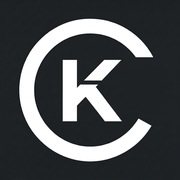
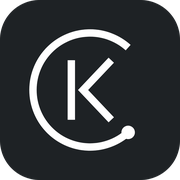
Add files via upload

diff --git a/coachkonnekt/site.css b/coachkonnekt/site.css
@@ -18,14 +18,15 @@ main { flex: 1; }
 .top { position: sticky; top: 0; z-index: 20; background: rgba(30,34,37,.88); backdrop-filter: blur(10px); border-bottom: 1px solid var(--line); }
 .top .wrap { display: flex; align-items: center; justify-content: space-between; gap: 12px; min-height: 64px; }
 .brand { display: flex; align-items: center; gap: 10px; text-decoration: none; color: var(--chalk); }
-.brand img { width: 34px; height: 34px; }
+.brand img { width: 34px; height: 34px; display: block; }
+.brand img.wm { width: auto; height: 15px; }
 .brand span { font-family: var(--display); font-size: 1.5rem; font-weight: 700; text-transform: uppercase; letter-spacing: .02em; }
 .brand b { font-weight: 800; }
 .links { display: flex; align-items: center; gap: 4px; }
 .links a { color: var(--mute); text-decoration: none; font-weight: 600; font-size: .92rem; padding: 8px 12px; border-radius: 8px; }
 .links a:hover { color: var(--chalk); }
 .links a.btn { color: var(--ink); padding: 9px 16px; margin-left: 6px; }
-@media (max-width: 640px) { .links a:not(.btn) { display: none; } .brand span { font-size: 1.25rem; } .links a.btn { padding: 8px 12px; } }
+@media (max-width: 640px) { .links a:not(.btn) { display: none; } .brand img.wm { height: 12px; } .links a.btn { padding: 8px 12px; } }
 
 /* buttons */
 .btn { display: inline-flex; align-items: center; justify-content: center; gap: 10px; background: var(--accent); color: var(--ink); font-weight: 700; padding: 13px 22px; border-radius: 10px; text-decoration: none; border: 0; font: inherit; font-weight: 700; cursor: pointer; transition: transform .15s; white-space: nowrap; }

diff --git a/coachkonnekt/dashboard/app.css b/coachkonnekt/dashboard/app.css
@@ -17,7 +17,8 @@ main.wrap { flex: 1; padding-top: 32px; padding-bottom: 64px; }
 .top { position: sticky; top: 0; z-index: 10; background: rgba(30,34,37,.92); backdrop-filter: blur(10px); border-bottom: 1px solid var(--line); }
 .top-in { display: flex; align-items: center; gap: 16px; min-height: 64px; flex-wrap: wrap; }
 .brand { display: flex; align-items: center; gap: 10px; text-decoration: none; color: var(--chalk); }
-.brand img { width: 34px; height: 34px; }
+.brand img { width: 34px; height: 34px; display: block; }
+.brand img.wm { width: auto; height: 15px; }
 .brand span { font-family: var(--display); font-weight: 700; font-size: 1.5rem; text-transform: uppercase; letter-spacing: .02em; }
 .brand b { font-weight: 800; }
 .nav { display: flex; gap: 4px; flex: 1; flex-wrap: wrap; }

diff --git a/coachkonnekt/privacy/index.html b/coachkonnekt/privacy/index.html
@@ -14,7 +14,7 @@
 </head>
 <body>
 <header class="top"><div class="wrap">
-  <a class="brand" href="/coachkonnekt/"><img src="/img/logo.png" alt=""><span>Coach<b>Konnekt</b></span></a>
+  <a class="brand" href="/coachkonnekt/"><img src="/img/logo.svg" alt=""><img class="wm" src="/img/wordmark-white.svg" alt="CoachKonnekt"></a>
   <nav class="links"><a class="btn" href="/coachkonnekt/dashboard/">Staff login</a></nav>
 </div></header>
 <main class="page wide policy">

diff --git a/coachkonnekt/connect/index.html b/coachkonnekt/connect/index.html
@@ -15,7 +15,7 @@
 </head>
 <body>
 <header class="top"><div class="wrap">
-  <a class="brand" href="/coachkonnekt/"><img src="/img/logo.png" alt=""><span>Coach<b>Konnekt</b></span></a>
+  <a class="brand" href="/coachkonnekt/"><img src="/img/logo.svg" alt=""><img class="wm" src="/img/wordmark-white.svg" alt="CoachKonnekt"></a>
   <nav class="links"><a class="btn" href="/coachkonnekt/dashboard/">Staff login</a></nav>
 </div></header>
 <main class="page">

diff --git a/coachkonnekt/connected/index.html b/coachkonnekt/connected/index.html
@@ -15,7 +15,7 @@
 </head>
 <body>
 <header class="top"><div class="wrap">
-  <a class="brand" href="/coachkonnekt/"><img src="/img/logo.png" alt=""><span>Coach<b>Konnekt</b></span></a>
+  <a class="brand" href="/coachkonnekt/"><img src="/img/logo.svg" alt=""><img class="wm" src="/img/wordmark-white.svg" alt="CoachKonnekt"></a>
   <nav class="links"><a class="btn" href="/coachkonnekt/dashboard/">Staff login</a></nav>
 </div></header>
 <main class="page">

diff --git a/coachkonnekt/index.html b/coachkonnekt/index.html
@@ -14,7 +14,7 @@
 </head>
 <body>
 <header class="top"><div class="wrap">
-  <a class="brand" href="/coachkonnekt/"><img src="/img/logo.png" alt=""><span>Coach<b>Konnekt</b></span></a>
+  <a class="brand" href="/coachkonnekt/"><img src="/img/logo.svg" alt=""><img class="wm" src="/img/wordmark-white.svg" alt="CoachKonnekt"></a>
   <nav class="links"><a class="btn" href="/coachkonnekt/dashboard/">Staff login</a></nav>
 </div></header>
 <main>

diff --git a/coachkonnekt/dashboard/index.html b/coachkonnekt/dashboard/index.html
@@ -15,7 +15,7 @@
 <body>
 <header class="top">
   <div class="wrap top-in">
-    <a class="brand" href="#/"><img src="/img/logo.png" alt=""><span>Coach<b>Konnekt</b></span></a>
+    <a class="brand" href="#/"><img src="/img/logo.svg" alt=""><img class="wm" src="/img/wordmark-white.svg" alt="CoachKonnekt"></a>
     <nav id="nav" class="nav" hidden></nav>
     <div id="who" class="who" hidden></div>
   </div>
